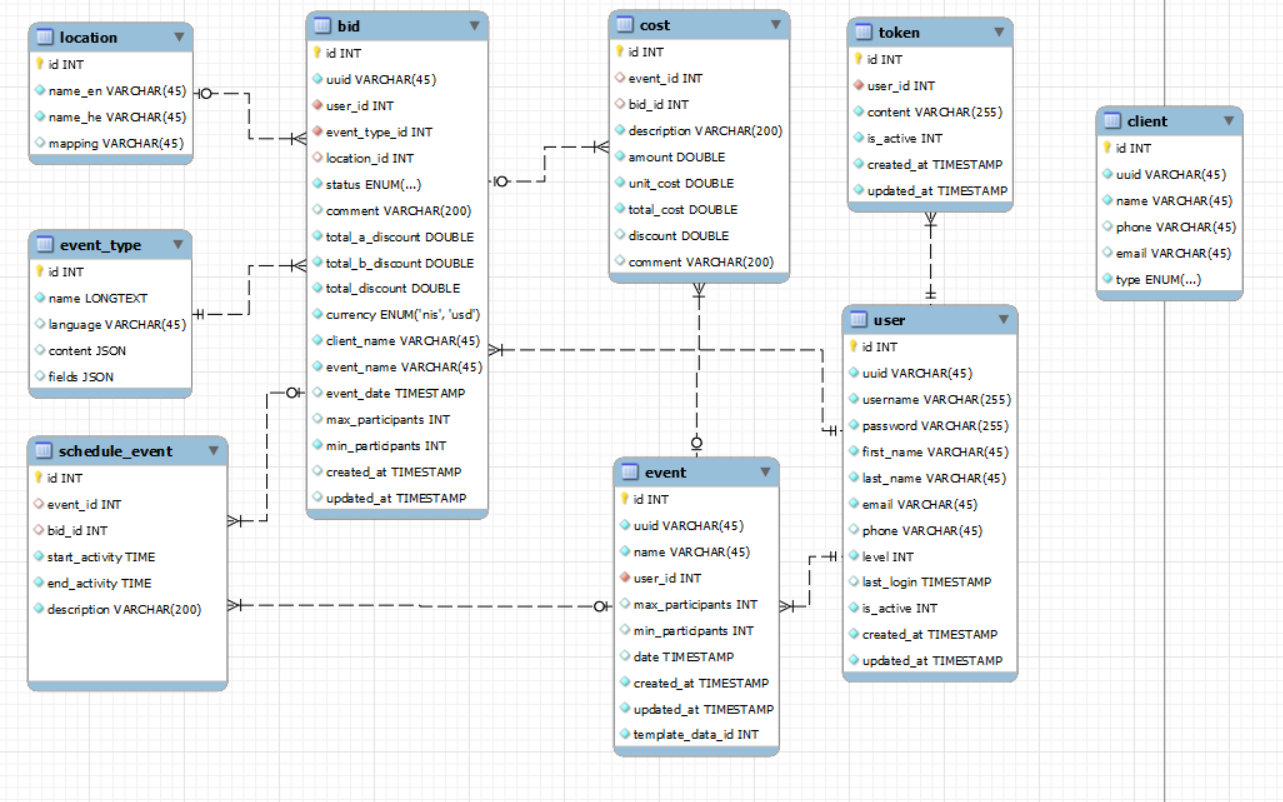
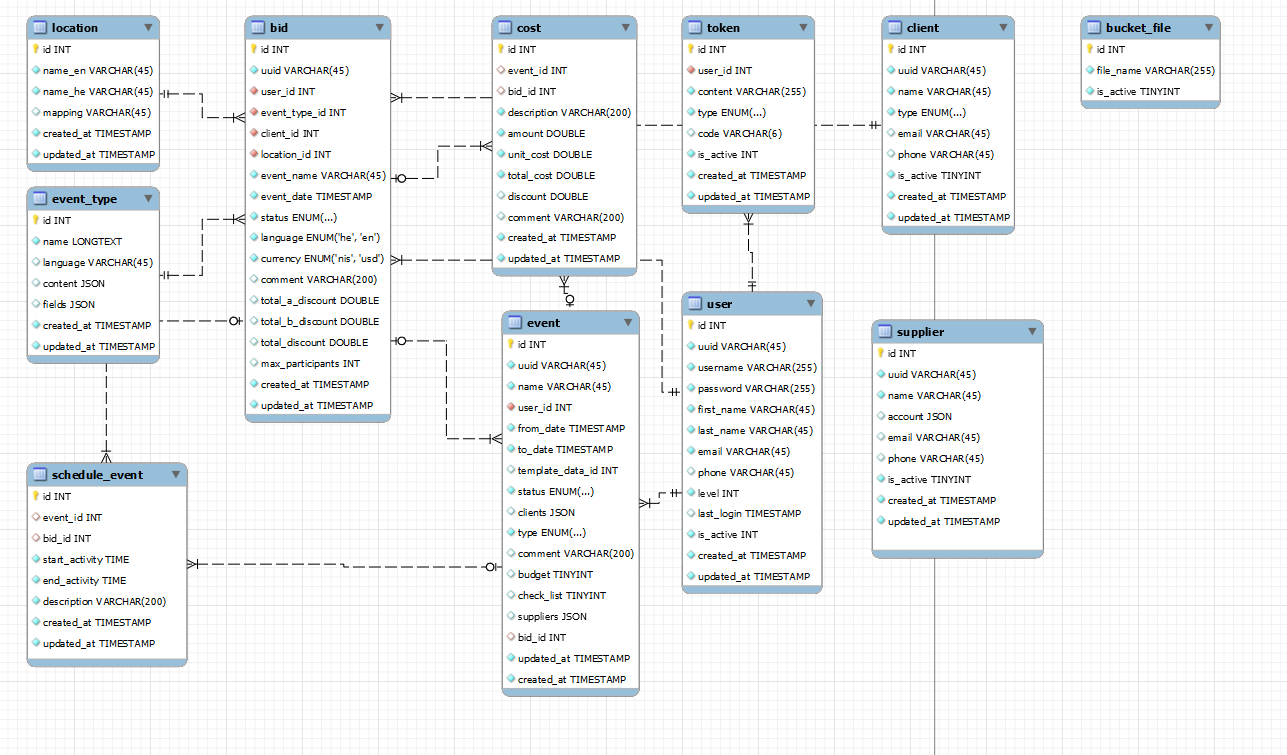
update readme, env, csv error, eer diagram

Changed region(s): [[0.0, 0.0, 0.8106, 0.9444], [0.8418, 0.0, 0.9977, 0.396]]

diff --git a/utils/csv_generator.js b/utils/csv_generator.js
@@ -1,7 +1,7 @@
 const Logger = require('logplease')
 const logger = Logger.create('utils/csv_generator.js')
-const { parentPort, workerData } = require('worker_threads')
-
+const { parentPort } = require('worker_threads')
+const iconv = require('iconv-lite')
 const createCsvWriter = require('csv-writer').createObjectCsvWriter
 const path = require('path')
 
@@ -32,8 +32,7 @@ const create_csv_file = async ({ data }) => {
       })
     } catch (error) {
       logger.error(error)
-      logger.error(file_name, 'error')
-      return reject({ status: 500 })
+      return resolve({ status: 500 })
     }
   })
 }

diff --git a/api/forgot_password/forgot_password.service.js b/api/forgot_password/forgot_password.service.js
@@ -24,7 +24,7 @@ const forgot_password = async (payload, result) => {
       to: user.email,
       from: `${process.env.IMJ_FROM}`,
       subject: 'IMJ: Reset password',
-      html: mailUtil.forgot_password(`${process.env.REDIRECT_URL_FORGOT_PASSWORD}/ResetPassword/${user_details.token}`),
+      html: mailUtil.forgot_password(`${process.env.IMJ_URL_CLIENT}/ResetPassword/${user_details.token}`),
     }
     sgMail.send(msg, async (err, res) => {
       if (err) {

diff --git a/api/csv/csv.service.js b/api/csv/csv.service.js
@@ -24,7 +24,7 @@ const create_csv = async ({ table, filters }, result) => {
     }
   } catch (error) {
     logger.log(error)
-    return result.status(400).end()
+    return result.status(500).end()
   }
 }
 

diff --git a/utils/mail.js b/utils/mail.js
@@ -1,4 +1,3 @@
-const imj_url = process.env.IMJ_URL
 const first_letter = `
 <!DOCTYPE html>
 <html>

diff --git a/README.md b/README.md
@@ -1,5 +1,20 @@
+## Management events system
+
+### About the project
+
+I built this project for The Israel Museum, Jerusalem.
+The technology stack:
+
+> For the DB I used MySQL [Link](https://github.com/yisrael35/rest_imj/tree/main/sql/structure)<br>
+> For the FrontEnd I used React with Redux and Material UI [Link](https://github.com/yisrael35/react_imj)<br>
+> For the BackEnd I used REST-API and WebSocket (NodeJS) - current repository <br>
+> For the deployment I used AWS-EC2 [Link](https://yisraelbar.xyz)<br>
+> For the documentation I used wiki.js [Link](https://wiki-imj.herokuapp.com/)<br>
+> To menage all the project I used Monday and Git<br>
+> The project goal is to build a Management events system for IMJ.<br>
+
 <p align="center">
-  <h1 align="center">IMJ Architecture</h1>
+  <h1 align="center">IMJ Server Architecture</h1>
   <p align="center">
     General documentation on the structure of the IMJ project
   </p>
@@ -11,6 +26,23 @@
   <li> .env - required variables in ./_env</li>
   <li> db structure and data - ./sql/structure/imj_db.mwb  || ./sql/migration/data_script.sql</li>
 </ol>
+
+
+### Client API
+<b>Production:</b>
+<a href="https://www.yisraelbar.xyz">https://www.yisraelbar.xyz</a>
+<b>Local:</b>
+<a href="http://localhost:3001">http://localhost:3000</a>
+
+
+### Server API
+<b>Production:</b>
+
+> <ol><li>Rest: <a href="https://rest-api.yisraelbar.xyz">https://rest-api.yisraelbar.xyz</a></li><li>WebSocket: <a href="wss://ws-api.yisraelbar.xyz">wss://ws-api.yisraelbar.xyz</a></li></ol>
+
+
+<b>Local:</b>
+> <ol><li>Rest: <a href="http://localhost:3001">http://localhost:3001</a></li><li>WebSocket: <a href="ws://localhost:3020">ws://localhost:3020</a></li></ol>
 
 ## LOGIN
 
